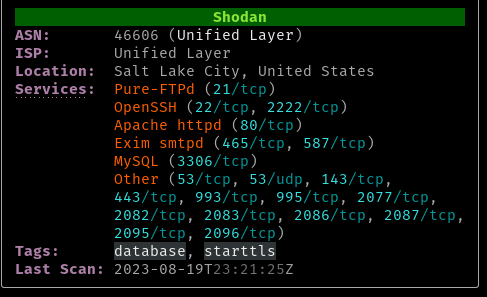
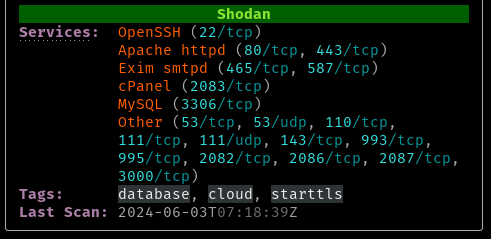
Update readme and shodan screenshot (#79)

Changed region(s): [[0.0, 0.0, 0.9856, 0.9958]]

diff --git a/README.md b/README.md
@@ -82,7 +82,6 @@ IPWhois should not be confused with IP2Whois, which provides domain Whois data.
 
 GETs data from the `/shodan/host/{ip}` endpoint (see [doc](https://developer.shodan.io/api)). For each IP, retrieves:
 
-* ASN, Org, ISP and Geolocation
 * List of open ports and services
 * Operating system (if available)
 * Tags (assigned by Shodan)
@@ -181,7 +180,7 @@ If supported by the terminal, the `Analysis` field and (if using PT) headings in
 
 ### Shodan
 
-Shodan can be used to enrich the IP addresses (instead of IPWhois). Invoke with the `-s` or `--use-shodan` flag.
+Shodan can be used to show an IP's open ports or services, and OS in some results. Invoke with the `-s` or `--use-shodan` flag.
 
 ![](https://github.com/pirxthepilot/wtfis/blob/main/imgs/example-shodan.png?raw=true)
 
